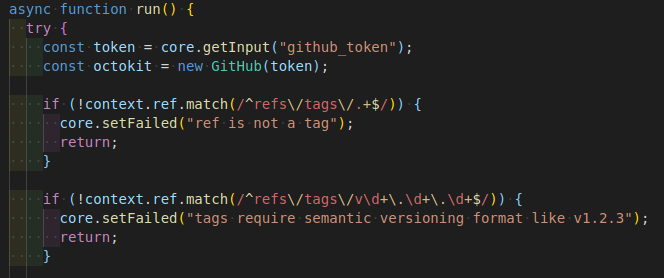
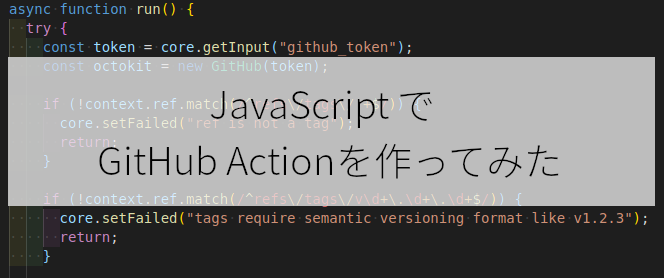
Update

diff --git a/content/2020/01/03/github-action-javascript.md b/content/2020/01/03/github-action-javascript.md
@@ -15,6 +15,8 @@ image: images/2020/01/03/github-action-javascript.png
 
 ![JavaScript](/images/2020/01/03/github-action-javascript.png)
 
+(OGP画像設定できるようにしてみたので意味のないアイキャッチ画像)
+
 JavaScript で GitHub Action を実装して公開しました。
 今までは Dockerfile を書いてたんですが、公式から「できれば JavaScript で作ってくれよな！」的な圧力を感じて、いつまでも Dockerfile に頼ってたらアカンと思ったので JavaScript で実装してみました。
 
